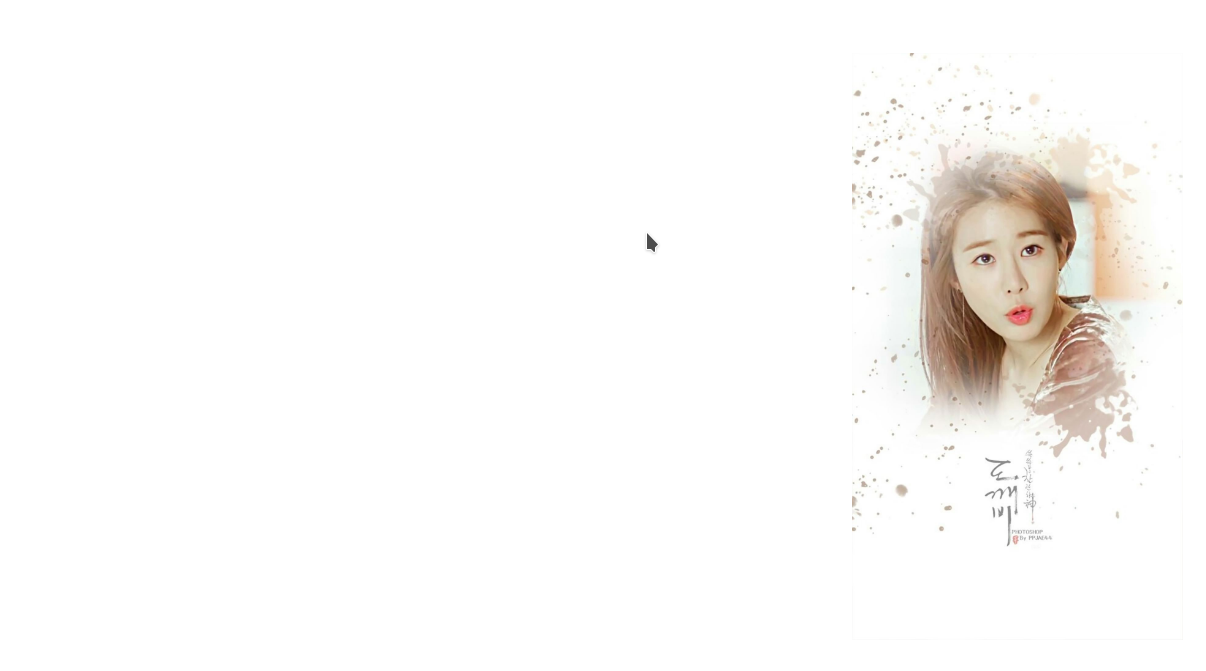
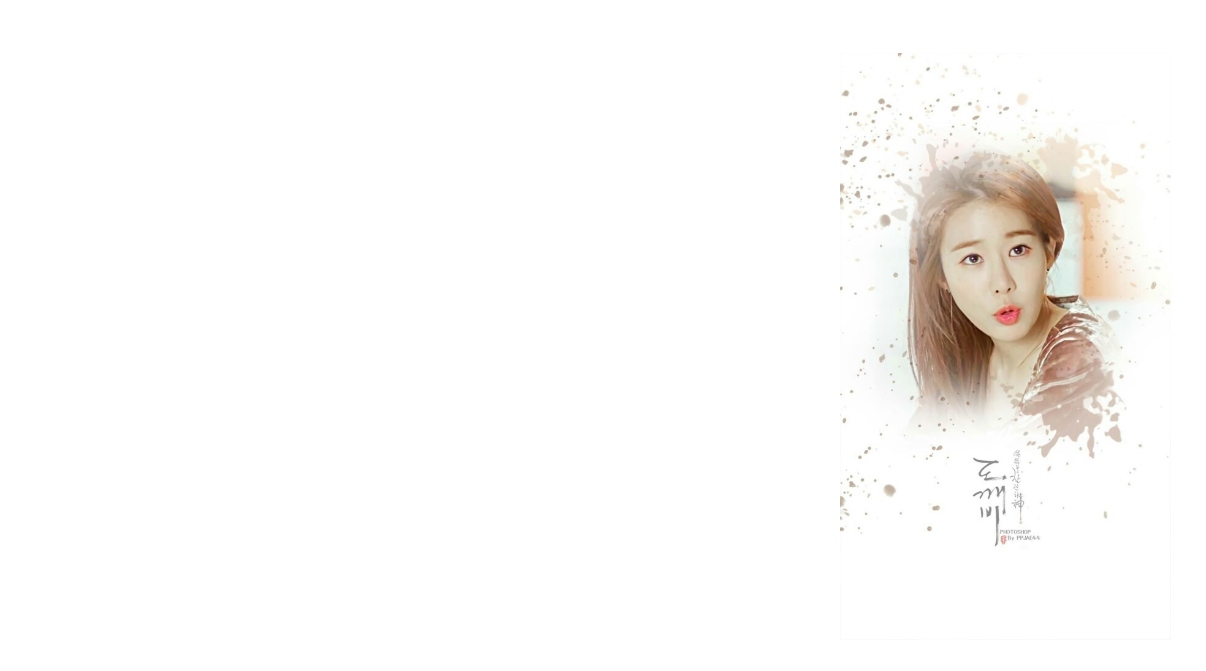
Add some bg images.

diff --git a/css/style.css b/css/style.css
@@ -12,7 +12,7 @@ html { font-size: 100px; }
 
 /* Background options */
 body, #content::before,#postamble::before {
-    background: url('../images/bg/girl1.jpg') center center / cover no-repeat fixed;
+    background: url('../images/bg/rn.jpg') center center / cover no-repeat fixed;
 }
 
 #postamble::before,
@@ -44,7 +44,7 @@ body, #content::before,#postamble::before {
 /* Self annotations */
 .js-note {
     position: absolute;
-    right: -30%;
+    right: -30.5%;
     width: 30%;
     /* border: 2px solid #19f; */
     box-shadow: 0 0 3px #369;

diff --git a/public/css/style.css b/public/css/style.css
@@ -12,7 +12,7 @@ html { font-size: 100px; }
 
 /* Background options */
 body, #content::before,#postamble::before {
-    background: url('../images/bg/girl1.jpg') center center / cover no-repeat fixed;
+    background: url('../images/bg/rn.jpg') center center / cover no-repeat fixed;
 }
 
 #postamble::before,
@@ -44,7 +44,7 @@ body, #content::before,#postamble::before {
 /* Self annotations */
 .js-note {
     position: absolute;
-    right: -30%;
+    right: -30.5%;
     width: 30%;
     /* border: 2px solid #19f; */
     box-shadow: 0 0 3px #369;
